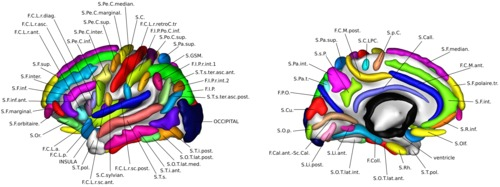
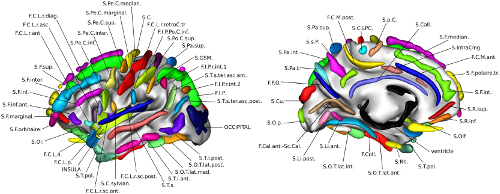
report modifs in website page
+ begin doc for Sulpated

diff --git a/sphinx/user_doc/index.rst b/sphinx/user_doc/index.rst
@@ -39,6 +39,14 @@ Morpho-DeepSulci
 * :morphodeep_dev:`The new (2019) sulcal identification algorithms and processes <index.html>`
 
 
+SulPatEd
+--------
+
+Sulpated, "Sulcal Patterns Editor" is a graphical interface to manually label sulci and sulcal patterns. See the doc in the dedicated page.
+
+:doc:`sulpated`
+
+
 BSA Atlas (Brainvisa Sulci atlas) v.2011
 ----------------------------------------
 
@@ -78,8 +86,8 @@ This atlas gives the probability of finding various cortical folds or gray nucle
 
     A high-resolution full-brain probabilistic atlas of regions based on cortical folds
 
-.. figure:: _static/images/bsa/brainvisa_sulci_atlas_with_table_small.jpg
-    :target: _static/images/bsa/brainvisa_sulci_atlas_with_table_150dpi-r90.png
+.. figure:: _static/images/bsa/nomenclature_translation_small.png
+    :target: _static/images/bsa/nomenclature_translation.png
     :width: 50%
 
     Atlas of Sulci with nomenclature table

diff --git a/sphinx/user_doc/sulpated.rst b/sphinx/user_doc/sulpated.rst
@@ -1,0 +1,27 @@
+========
+SulPatEd
+========
+
+Sulpated, "Sulcal Patterns Editor" is a graphical interface to manually label sulci and sulcal patterns.
+
+It is originally a "small tool program" and its setup is not completely automatic. This means there is a config file to write
+
+Before starting
+===============
+
+Setup Brainvisa databases
+-------------------------
+
+Write a config file
+-------------------
+
+The GUI
+=======
+
+Then run the following command from a terminal inside the BrainVisa container
+
+.. code-block:: bash
+
+    python3 -m morphologist.sulpated -o /path/to/data
+
+
